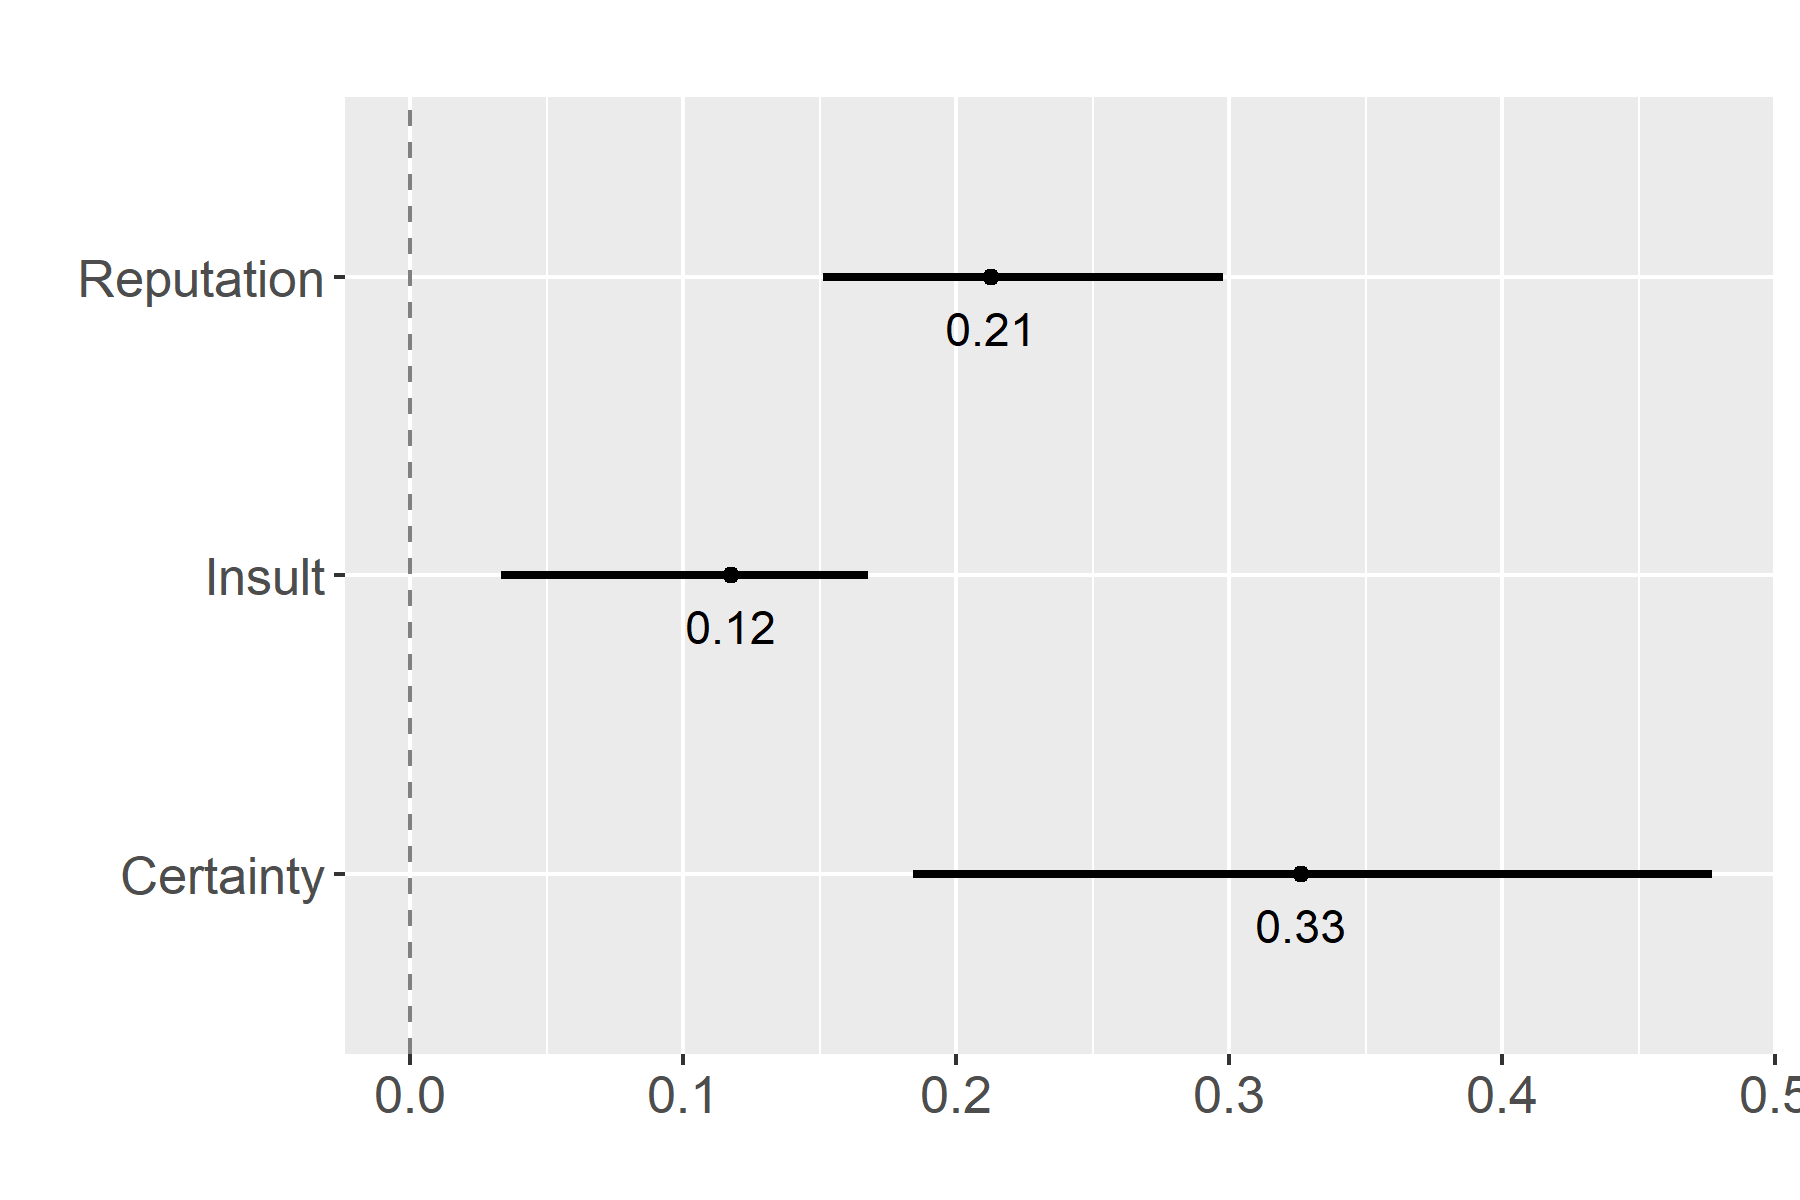
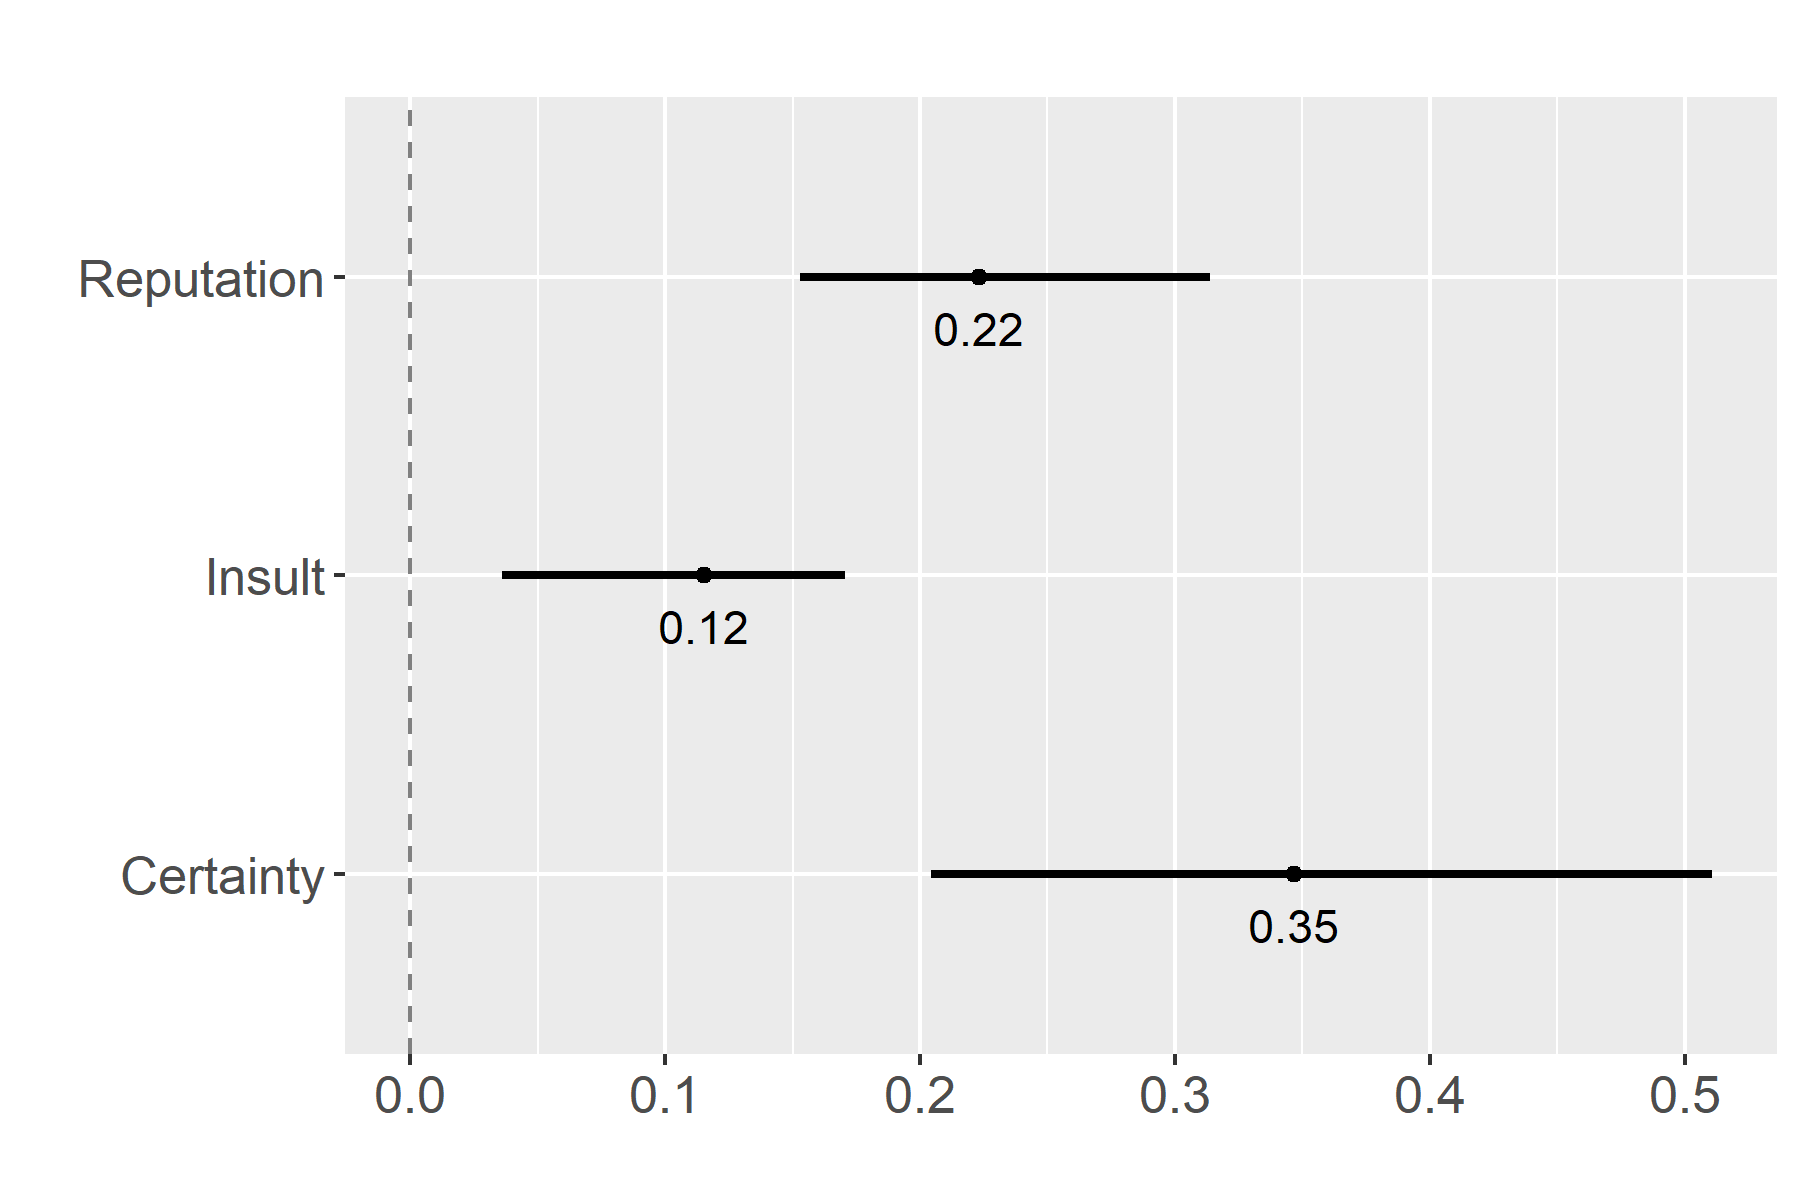
Finished multi-mediation analysis

diff --git a/Figures/med_table_iran.html b/Figures/med_table_iran.html
@@ -22,24 +22,24 @@
   <tr>
     <th rowspan ="3">Controls</th> 
     <td >Reputation</td>
-    <td> -3.015 </td>
-    <td> -10.911 </td>
-    <td> -13.926 </td>
-    <td> 0.216  </td>
+    <td> -3.107 </td>
+    <td> -10.719 </td>
+    <td> -13.826 </td>
+    <td> 0.223  </td>
   </tr>
   <tr style="background-color: #D6EEEE">
     <td>Ambiguity</td>
-    <td> -4.535 </td>
-    <td> -9.667 </td>
-    <td> -14.202 </td>
-    <td> 0.319  </td>
+    <td> -4.856 </td>
+    <td> -9.143 </td>
+    <td> -13.999 </td>
+    <td> 0.347  </td>
   </tr>
   <tr>
     <td>Insulting</td>
-   <td> -1.169 </td>
-    <td> -12.345 </td>
-    <td> -13.515 </td>
-    <td> 0.087  </td>
+   <td> -1.594 </td>
+    <td> -12.241 </td>
+    <td> -13.835 </td>
+    <td> 0.115  </td>
   </tr>
   <tr><th colspan="6" style = "border-bottom: 1px solid black"></th></tr>
   <tr>
